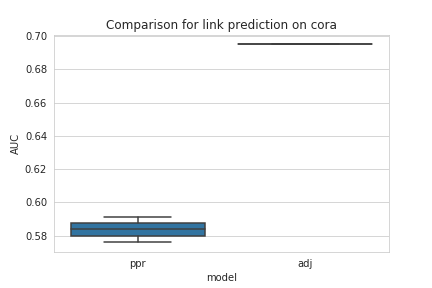
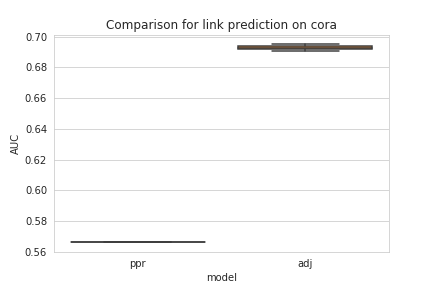
fix random state

diff --git a/evaluation/evaluate_link_prediction.py b/evaluation/evaluate_link_prediction.py
@@ -11,11 +11,11 @@ from sklearn.linear_model import LogisticRegression
 from sklearn.metrics import roc_auc_score
 
 
-def evaluateLinkPrediction(AdjMat,embedding_method,train_ratio, train_epochs, eval_epochs,edge_emb_method,undirected=True):
+def evaluateLinkPrediction(AdjMat,embedding_method, round_id, train_ratio, train_epochs, eval_epochs,edge_emb_method,undirected=True):
 
 	# split edges of graph into set of train and test edges
 	# val_ones and val_zeros is always empty
-	train_ones, val_ones, val_zeros, test_ones, test_zeros = gust.train_val_test_split_adjacency(AdjMat, p_val=0, p_test=1-train_ratio, random_state=0, neg_mul=1,
+	train_ones, val_ones, val_zeros, test_ones, test_zeros = gust.train_val_test_split_adjacency(AdjMat, p_val=0, p_test=1-train_ratio, random_state= round_id, neg_mul=1,
         every_node=True, connected=False, undirected=True,use_edge_cover=True, set_ops=True, asserts=False)
 
 	# create set of train edges which are not in the train graph nor in the test graph
@@ -112,7 +112,7 @@ def expLP(AdjMat, dataset_name, embedding_method, rounds,
 			pathlib.Path(summary_folder_extended_round).mkdir(parents=True, exist_ok=True) 
 			embedding_method.set_summary_folder(summary_folder_extended_round)
 			embedding_method.reset_epoch()
-			AUC = evaluateLinkPrediction(AdjMat, embedding_method,
+			AUC = evaluateLinkPrediction(AdjMat, embedding_method, round_id,
 											train_ratio,train_epochs, eval_epochs, edge_emb_method,
 											undirected=undirected)
 			auc_scores.append(AUC)
